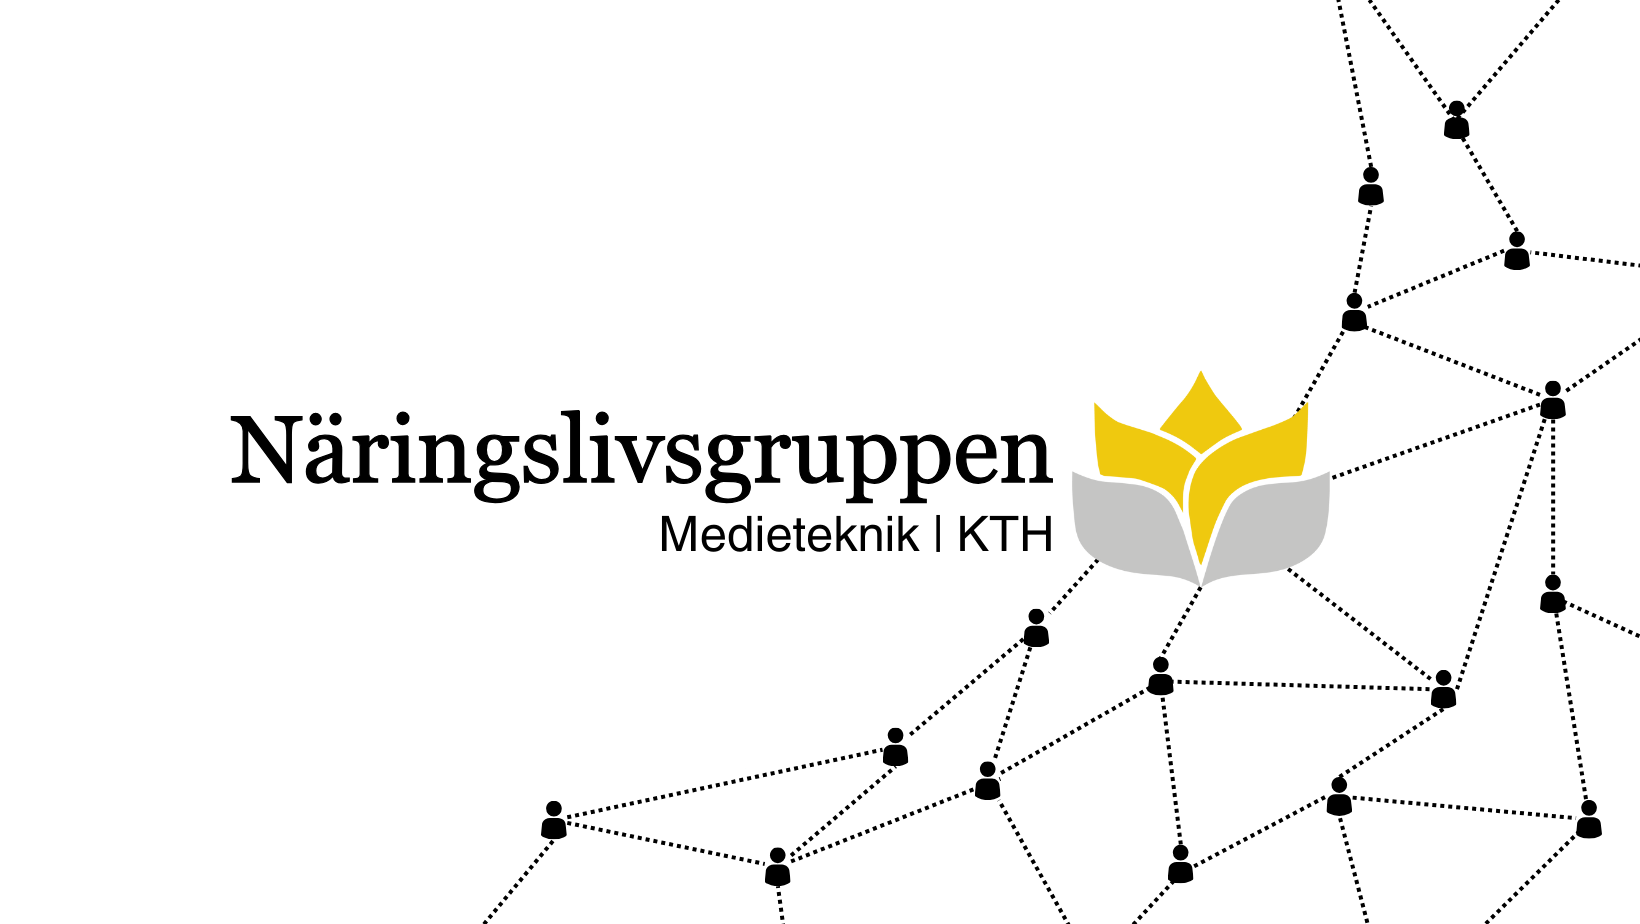
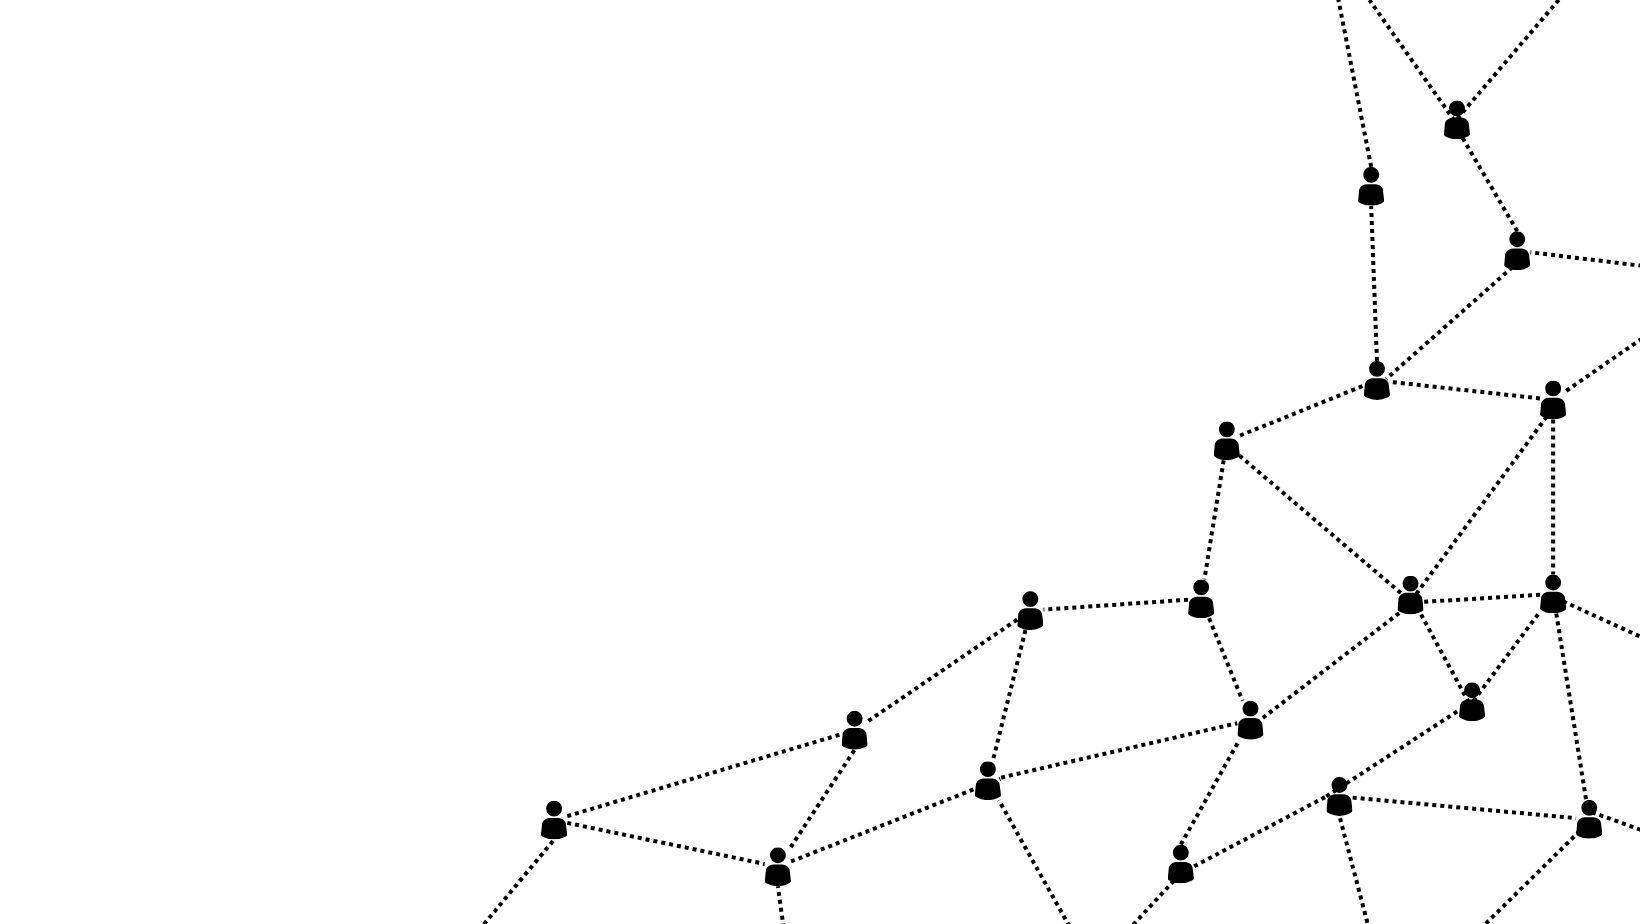
Update background
Update background, add NLG logo

diff --git a/src/pages/index.tsx b/src/pages/index.tsx
@@ -4,6 +4,7 @@ import { Link } from "gatsby"
 import { FaFacebook, FaInstagram, FaLinkedin } from "react-icons/fa"
 import Layout from "src/components/layout"
 import Timeline from "src/components/timeline/Timeline"
+import sideimg from "src/images/nlg-icon.png"
 import background from "src/images/main_background.png"
 
 export default function Index() {
@@ -51,6 +52,7 @@ export default function Index() {
               </Link>
             </div>
           </div>
+          <img className={styles.sideimg} src={sideimg} />
         </div>
         <div className={styles.containerMedia}>
           <a id="timeline" href="https://www.facebook.com/NLGmedieteknik">

diff --git a/src/pages/index.module.scss b/src/pages/index.module.scss
@@ -12,7 +12,12 @@
     height: 90vh;
   }
 }
+.sideimg {
+  display: none;
+  max-width: 18vw;
+}
 .background {
+  display: none;
   z-index: -1;
   position: absolute;
   opacity: 0.2;
@@ -78,6 +83,9 @@
 }
 
 @media (min-width: 800px) {
+  .background {
+    display: initial;
+  }
   .containerLinks {
     flex-direction: row;
   }
@@ -88,6 +96,9 @@
 }
 
 @media (min-width: 1400px) {
+  .sideimg {
+    display: initial;
+  }
   .containerHero {
     padding: 0 64px;
     max-width: 100%;
